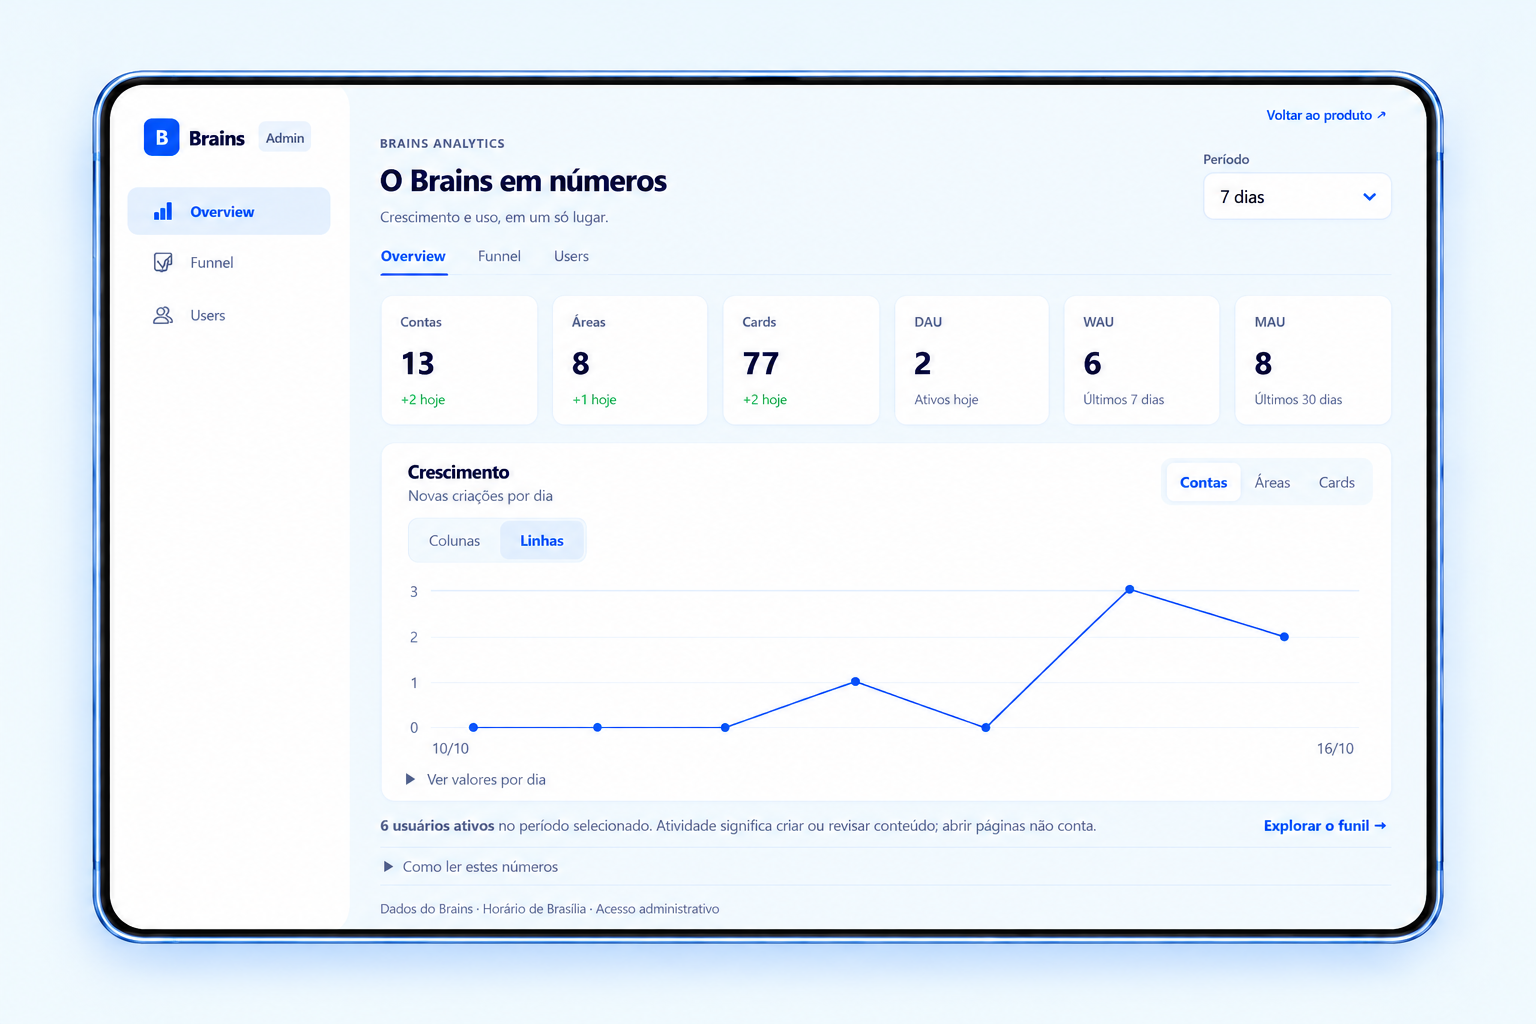
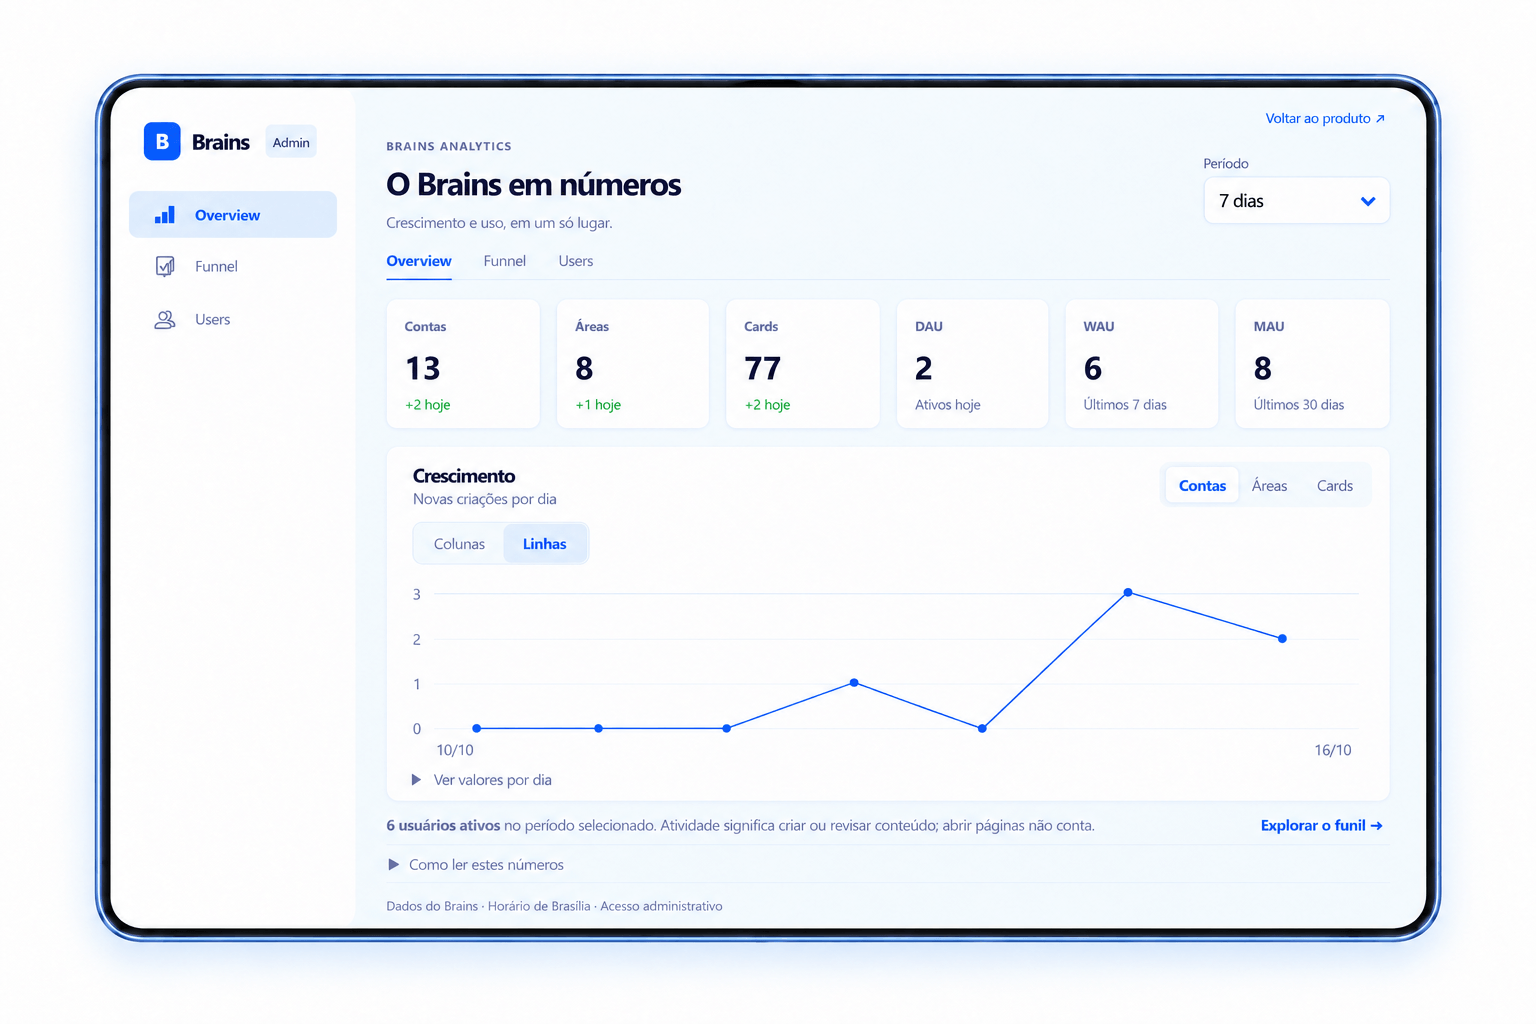
Refine Brains case lessons and dashboard

diff --git a/public/brains-case.css b/public/brains-case.css
@@ -25,11 +25,6 @@
 .brains-validation {
   border-top: 1px solid var(--border-light);
   background: var(--white);
-  padding-bottom: 48px;
-}
-
-.brains-page .case-lessons {
-  padding-top: 48px;
 }
 
 .brains-dashboard {
@@ -60,14 +55,6 @@
 
   .brains-dashboard {
     margin-top: 32px;
-  }
-
-  .brains-validation {
-    padding-bottom: 32px;
-  }
-
-  .brains-page .case-lessons {
-    padding-top: 32px;
   }
 
   .brains-lessons-grid {

diff --git a/projects/brains/index.html b/projects/brains/index.html
@@ -106,7 +106,7 @@
         </div>
       </section>
 
-      <section class="case-section case-lessons" aria-labelledby="brains-lessons-title">
+      <section class="case-section case-section-tinted case-lessons" aria-labelledby="brains-lessons-title">
         <div class="case-container">
           <div class="case-heading" data-motion>
             <p class="case-eyebrow" data-i18n="brains.lessons.eyebrow">Reflexões até aqui</p>
